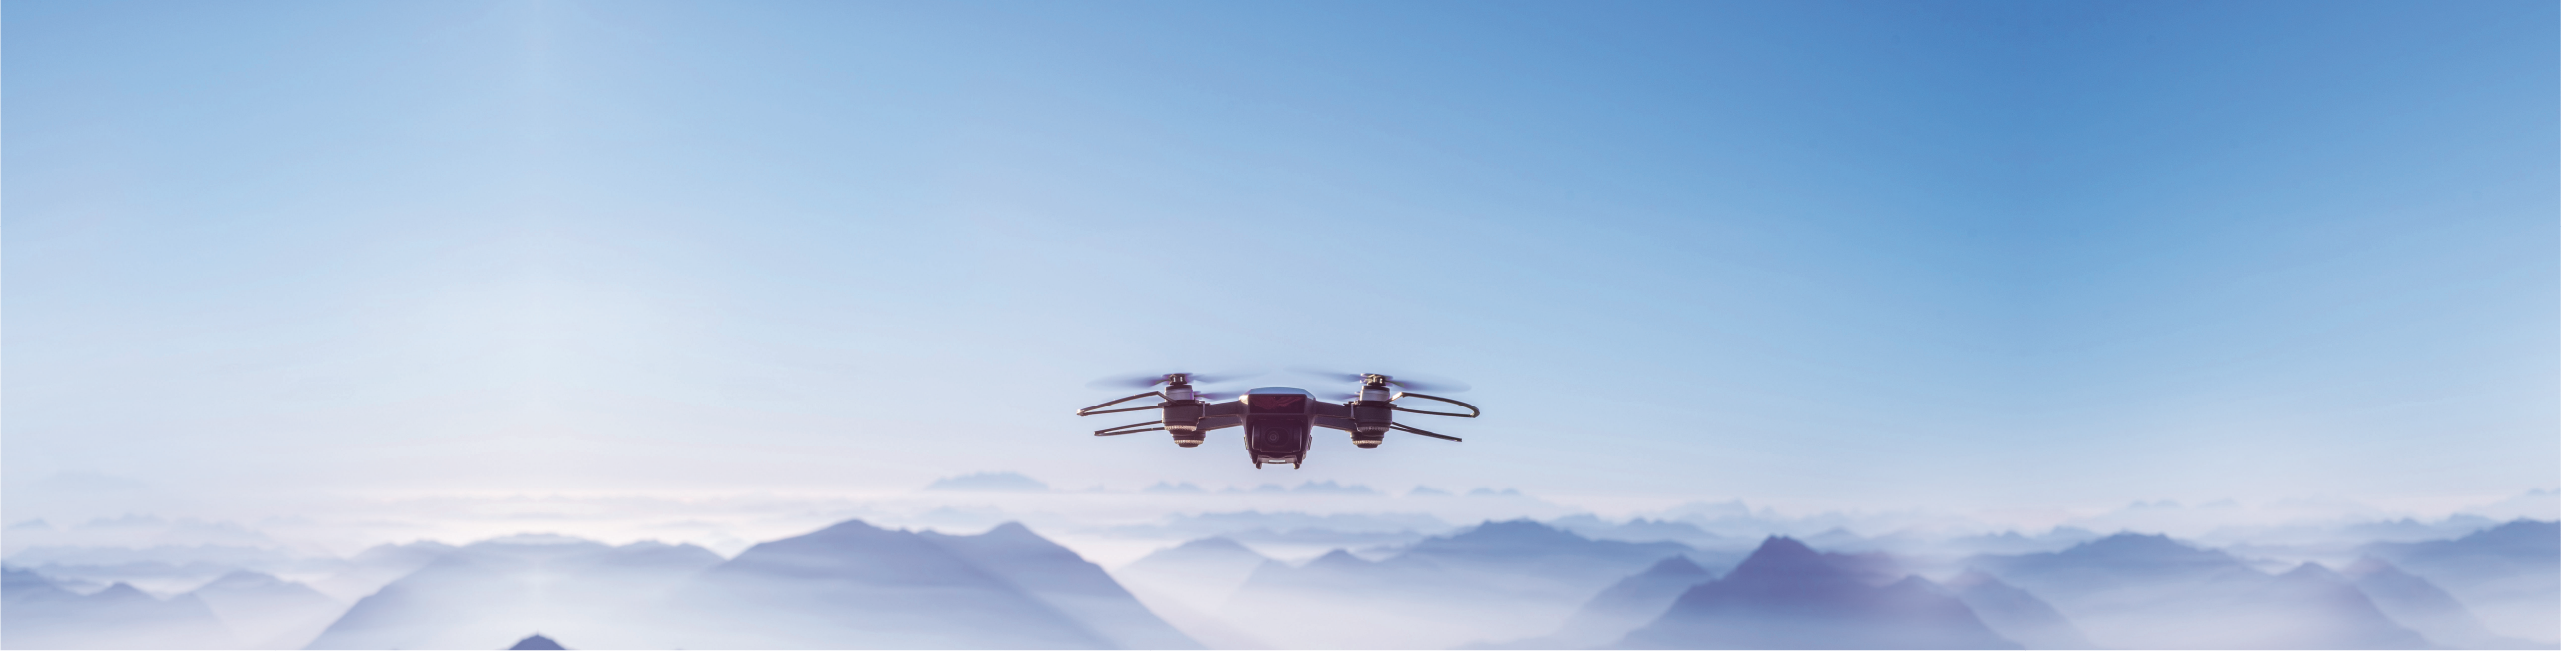
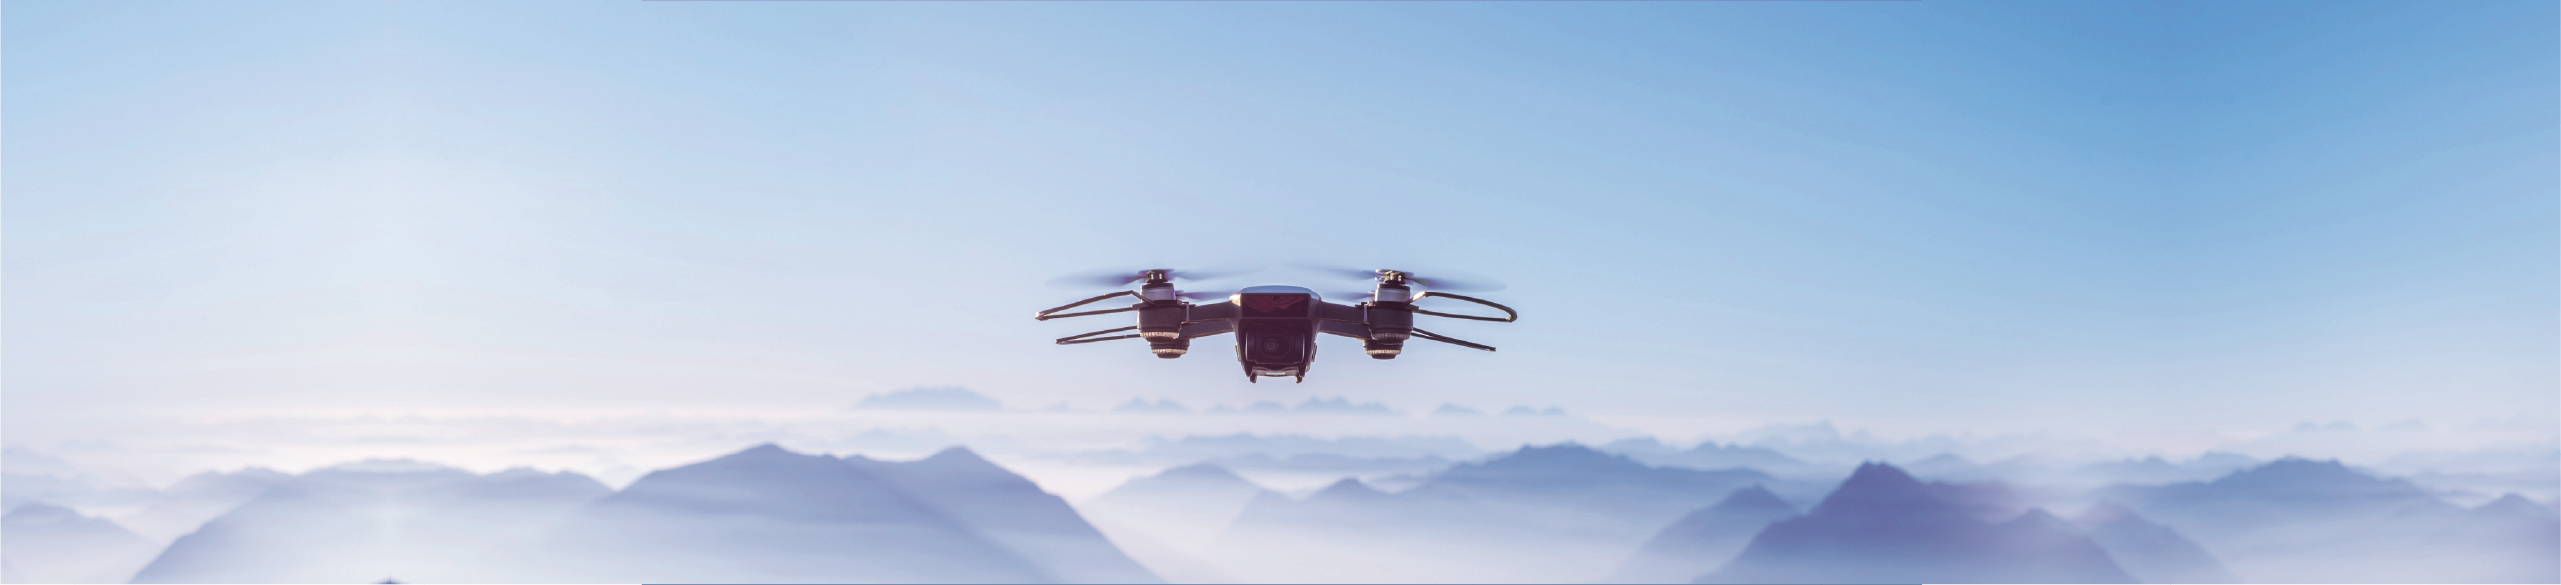
updated text

diff --git a/src/containers/Sections/Feature/index.js b/src/containers/Sections/Feature/index.js
@@ -30,16 +30,16 @@ const features = [
     desc: '放眼全球\n投資未來性產業',
     subTitle: '精選多元投資主題',
     src: chart,
-    text: '挖掘巨量數據下的洞見，聚焦多面向投資主題。',
+    text: '創新顛覆正形塑未來世界樣貌，施羅德以獨特洞見尋找顛覆未來生活的新技術與產業。',
     chart: <Pie />,
     source: '施羅德投資，2021/12/31，個股僅作舉例說明，不代表任何金融商品之推薦或投資建議。',
   },
   {
     title: '聚焦顛覆新贏家',
-    desc: '關注創新獨角獸',
+    desc: '聚焦結構新贏家\n關注創新獨角獸企業',
     subTitle: '挖掘潛力獨角獸企業',
     src: global,
-    text: '關注產業前瞻技術，挖掘潛力新星。',
+    text: '關注新興產業與前瞻技術，尋找顛覆結構的超新星，提前掌握未來新贏家。',
     chart: <MovingRadar />,
     source: '施羅德投資，2021/12/31。'
   },
@@ -48,7 +48,7 @@ const features = [
     desc: '六大優勢\n搶佔未來契機',
     subTitle: '跨領域專家深度分析',
     src: data,
-    text: '擁有超過百位跨領域專家，藉由私募股權創投專門研究未上市公司之非公開資訊，精準掌握潛力標的。',
+    text: '超過百位產業分析師，並有私募股權創投經驗分享，精準掌握顛覆新星以及獨角獸企業契機。',
     chart: chart_1_3,
     source: '施羅德投資，2021/12/31。'
   },

diff --git a/src/containers/Intro/index.js b/src/containers/Intro/index.js
@@ -95,7 +95,7 @@ const Banner = ({ url, color }) => {
       backgroundPosition="center"
       backgroundRepeat="center"
       backgroundSize={responsive('768px auto', '2560px auto')}
-      height={responsive('360px', '650px')}
+      height={responsive('360px', '584px')}
       bg="lightBlue"
     >
       <Container
@@ -105,9 +105,9 @@ const Banner = ({ url, color }) => {
         position="relative"
       >
         <Box>
-          <Text.Bold textAlign="center" fontSize={responsive('2.4rem', '6rem')} lineHeight={1.2}>
+          {/* <Text.Bold textAlign="center" fontSize={responsive('2.4rem', '6rem')} lineHeight={1.2}>
             顛覆未來 即刻啟動
-          </Text.Bold>
+          </Text.Bold> */}
           {/* <Arrow>
             <Box className="chevron" />
             <Box className="chevron" />

diff --git a/src/containers/Sections/Advantage/index.js b/src/containers/Sections/Advantage/index.js
@@ -32,7 +32,7 @@ const advs = [
   {
     title: '敢於顛覆　躍升未來新贏家',
     subTitle: '多成長時代 三大潛力關鍵字',
-    desc: '找出潛力三大主題「智慧創新、風格生活、環境永續」，尋找顛覆未來新贏家。',
+    desc: '找出潛力三大主題「創新翻轉、生活新風格、環境永續」，尋找顛覆未來新贏家。',
     chart: <Keywords />,
     desk_chart: <Keywords />,
     source: '施羅德投資，2021/12/31。'
